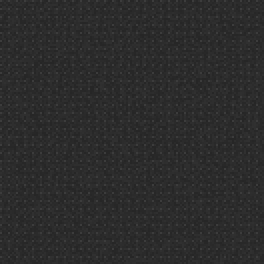
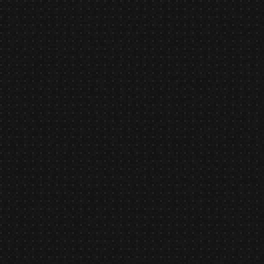
wip

diff --git a/src/index.js b/src/index.js
@@ -41,9 +41,14 @@ document.body.appendChild(renderer.view);
 const stage = new PIXI.Container();
 const bg = new PIXI.extras.TilingSprite(
   // PIXI.Texture.fromImage('./img/congruent_outline.png'),
-  PIXI.Texture.fromImage('./img/footer_lodyas.png'),
+  PIXI.Texture.fromImage('./img/black_denim.png'),
+  // PIXI.Texture.fromImage('./img/black_paper.png'),
+  // PIXI.Texture.fromImage('./img/random_grey_variations.png'),
+  // PIXI.Texture.fromImage('./img/footer_lodyas.png'),
+  // PIXI.Texture.fromImage('./img/dust.png'),
   // PIXI.Texture.fromImage('./img/pink dust.png'),
   // PIXI.Texture.fromImage('./img/squared_metal_inv_@2X.png'),
+  // PIXI.Texture.fromImage('./img/squared_metal_inv_@2X copy.png'),
   // PIXI.Texture.fromImage('./img/subtle_white_mini_waves.png'),
   renderer.width,
   renderer.height,

diff --git a/src/railway.js b/src/railway.js
@@ -48,13 +48,13 @@ export default class RailWay extends PIXI.Graphics {
           const sx = wayPoint.position.x;
           const sy = wayPoint.position.y;
 
-          this.layerLines.lineStyle(66, this._color, 0.1);
+          this.layerLines.lineStyle(66, this._color, 0.02);
           this.layerLines.moveTo(px, py);
           this.layerLines.lineTo(sx, sy);
           this.layerLines.lineStyle(6, 0x2D2D2D, 1);
           this.layerLines.moveTo(px, py);
           this.layerLines.lineTo(sx, sy);
-          this.layerLines.lineStyle(3, this._color, 1);
+          this.layerLines.lineStyle(12, this._color, 1);
           this.layerLines.moveTo(px, py);
           this.layerLines.lineTo(sx, sy);
         }

diff --git a/src/train.js b/src/train.js
@@ -64,7 +64,7 @@ export default class Train extends PIXI.Graphics {
       fontSize: 14,
       fill: 0x464646,
     });
-    // this.info.visible = false;
+    this.info.visible = false;
     this.info.x = ix + 20;
     this.info.y = -188;
     this.infoContainer.addChild(this.info);
@@ -85,6 +85,17 @@ export default class Train extends PIXI.Graphics {
 
     this.speed = 0;
     this.moving = false;
+
+    anime({
+      targets: [this.head],
+      direction: 'alternate',
+      easing: 'easeInSine',
+      loop: true,
+      alpha: 0.2,
+      duration: 2000,
+      update: () => this._draw(),
+    });
+
     this._draw();
   }
 
